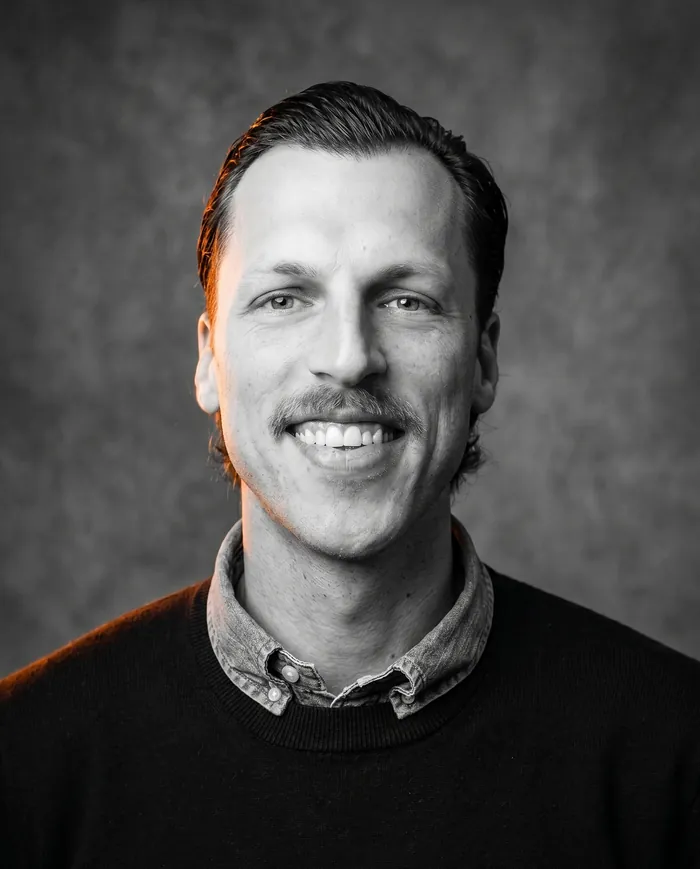
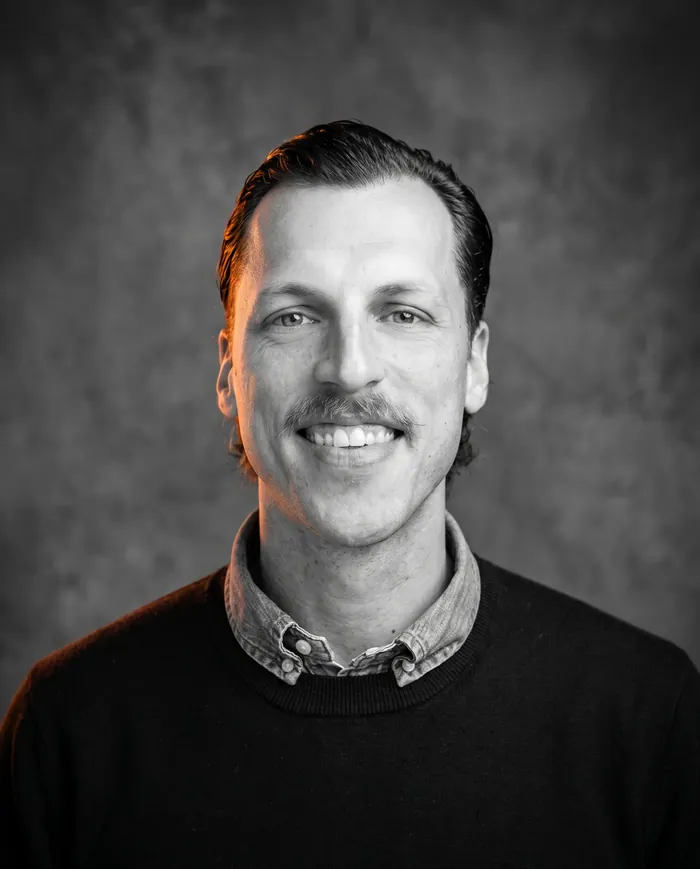
Swap Michael headshot to correct take; use Corrine's portrait on her partner page
- Michael Glasser: switch to the correct studio take (was the wrong one)
- Corrine Chalmers: replace the group-photo hero with her studio portrait
  (team-corrine-chalmers.webp) + matching preload

Claude-Session: https://claude.ai/code/session_01Xdb7zDbyLPyXMVARSe5KE5

diff --git a/corrine-chalmers.html b/corrine-chalmers.html
@@ -4,7 +4,7 @@
 <title>Corrine Chalmers · Zib Digital Partner · Geelong</title>
 <meta name="description" content="Corrine Chalmers is a Zib Digital partner and Growth Specialist based in Geelong. Entrepreneur background across CrossFit, hospitality, ecommerce. Tailored digital strategies that drive real ROI. Run a free SEO audit with Corrine's team in 30 seconds." />
 <meta name="zib:source-tag" content="Corrine Chalmers partner page" />
-<link rel="preload" as="image" href="/assets/corrine-front.webp" fetchpriority="high">
+<link rel="preload" as="image" href="/assets/team-corrine-chalmers.webp" fetchpriority="high">
 <!-- @include _partials/head.html -->
 <!-- FAQPage schema, eligible for Google rich results -->
 <script type="application/ld+json">
@@ -112,7 +112,7 @@
       </div>
       <figure class="partner-portrait">
         <div class="portrait-frame">
-          <img src="/assets/corrine-front.webp" alt="Corrine Chalmers, Zib Digital Partner and Growth Specialist" width="768" height="975" loading="eager" fetchpriority="high" decoding="async" />
+          <img src="/assets/team-corrine-chalmers.webp" alt="Corrine Chalmers, Zib Digital Partner and Growth Specialist" width="768" height="975" loading="eager" fetchpriority="high" decoding="async" />
         </div>
         <figcaption class="partner-portrait-cap mono">
           <span>Corrine Chalmers</span>
